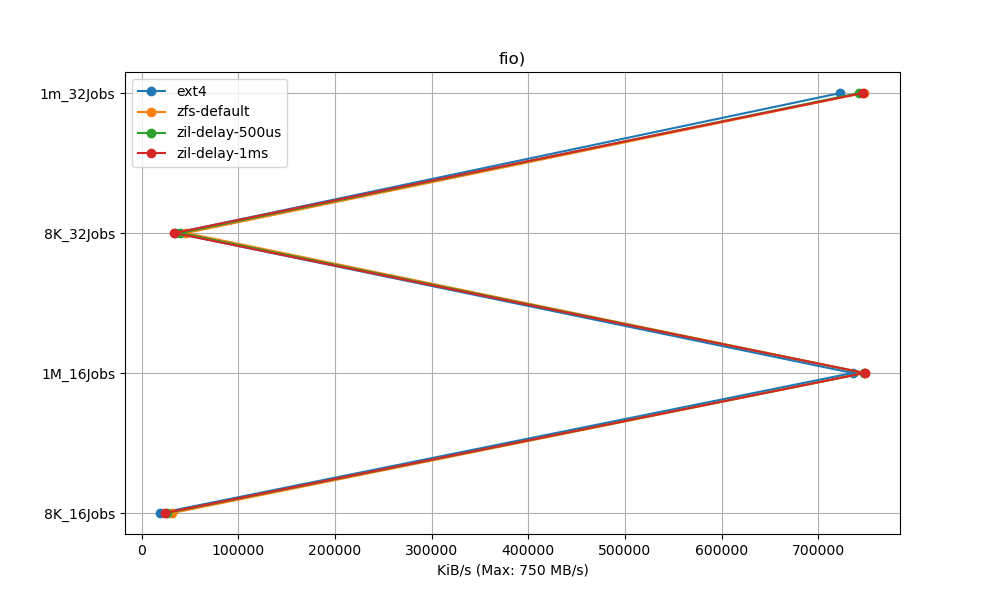
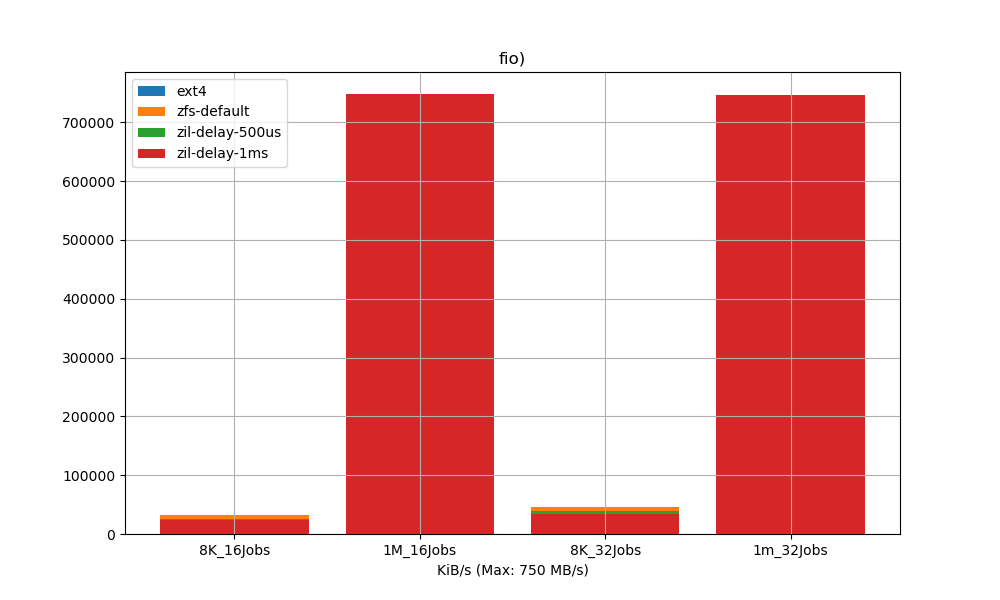
updates_resultss

diff --git a/fio-27-02-2025/fio_throughput.py b/fio-27-02-2025/fio_throughput.py
@@ -39,12 +39,13 @@ x_axis_seq_sync_writes = [
 
 
 # Create a plot
+# Create a plot
 plt.figure(figsize=(10, 6))
 #plt.errorbar(latency, throughput, xerr=latency_error, yerr=throughput_error, fmt='o', ecolor='r', capsize=5)
-plt.plot(throughput_ext4_seq_sync_write, x_axis_seq_sync_writes,  marker='o', label="ext4")
-plt.plot(throughput_zfs_default_seq_sync_write, x_axis_seq_sync_writes,  marker='o', label="zfs-default")
-plt.plot(throughput_zfs_500us_seq_sync_write, x_axis_seq_sync_writes,  marker='o', label="zil-delay-500us")
-plt.plot(throughput_zfs_1ms_seq_sync_write, x_axis_seq_sync_writes,  marker='o', label="zil-delay-1ms")
+plt.bar(x_axis_seq_sync_writes, throughput_ext4_seq_sync_write, label="ext4")
+plt.bar(x_axis_seq_sync_writes,  throughput_zfs_default_seq_sync_write,   label="zfs-default")
+plt.bar(x_axis_seq_sync_writes, throughput_zfs_500us_seq_sync_write,    label="zil-delay-500us")
+plt.bar(x_axis_seq_sync_writes,  throughput_zfs_1ms_seq_sync_write,  label="zil-delay-1ms")
 
 
 
